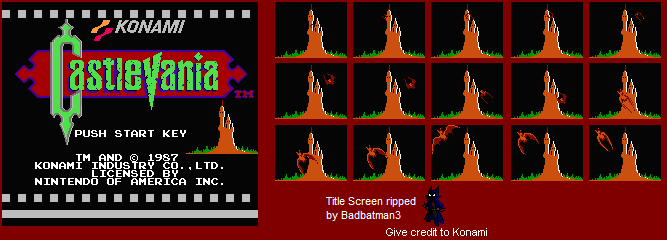
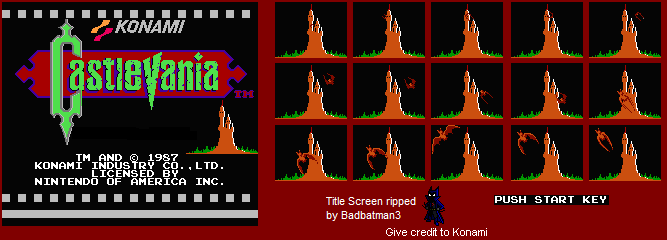
Updat menu...

Changed region(s): [[0.7196, 0.7875, 0.9295, 0.875], [0.1199, 0.525, 0.2699, 0.5833]]

diff --git a/FrameWork/IntroScene.cpp b/FrameWork/IntroScene.cpp
@@ -27,9 +27,13 @@ bool IntroScene::init()
 	_animations["back_ground"] = new Animation(_sprite, 0.1f);
 	_animations["back_ground"]->addFrameRect(eID::INTROSCENE, "background", NULL);
 
+	_animations["start"] = new Animation(_sprite, 0.1f);
+	_animations["start"]->addFrameRect(eID::INTROSCENE, "start", NULL);
 //	_okSprite = new Sprite(, L"Resources//Images//introScene.png");
 
 	_ok = false;
+	_flash = false;
+	delay = 0;
 	return true;
 }
 
@@ -42,19 +46,41 @@ void IntroScene::update(float dt)
 	_animations["fly_bat"]->update(dt);
 	if (_ok)
 	{
-	/*	if (SoundManager::getInstance()->IsPlaying(eSoundId::DESTROY_BRIDGE) == false)
-		{*/
+		if (!_flash && delay > 200)
+		{
+			_flash = true;
+			delay = 0;
+		}
+		else
+		{
+			delay += dt;
+			_flash = false;
+		}
+		if (pendingStopWatch == nullptr)
+		{
+			pendingStopWatch = new StopWatch();
+		}
+
+		if (pendingStopWatch->isStopWatch(1500))
+		{
 			auto play = new PlayScene();
 			SceneManager::getInstance()->replaceScene(play);
 		}
-	//}
+	}
 }
 void IntroScene::draw(LPD3DXSPRITE spriteHandle)
 {
+
 	_sprite->setPosition(GVector2(0, WINDOW_HEIGHT));
 	_animations["back_ground"]->draw(spriteHandle,_viewport);
 	_sprite->setPosition(GVector2(367,254));
 	_animations["fly_bat"]->draw(spriteHandle, _viewport);
+	if (!_flash)
+	{
+		_sprite->setPosition(GVector2(146, 204));
+		_animations["start"]->draw(spriteHandle, _viewport);
+	}
+
 }
 void IntroScene::release()
 {

diff --git a/FrameWork/IntroScene.h b/FrameWork/IntroScene.h
@@ -22,6 +22,9 @@ private:
 	void onKeyPressed(KeyEventArg* key_event);
 	Viewport* _viewport;
 	Sprite* _okSprite;
+	StopWatch* pendingStopWatch;
+	bool _flash;
+	float delay;
 	bool _ok;
 };
 
